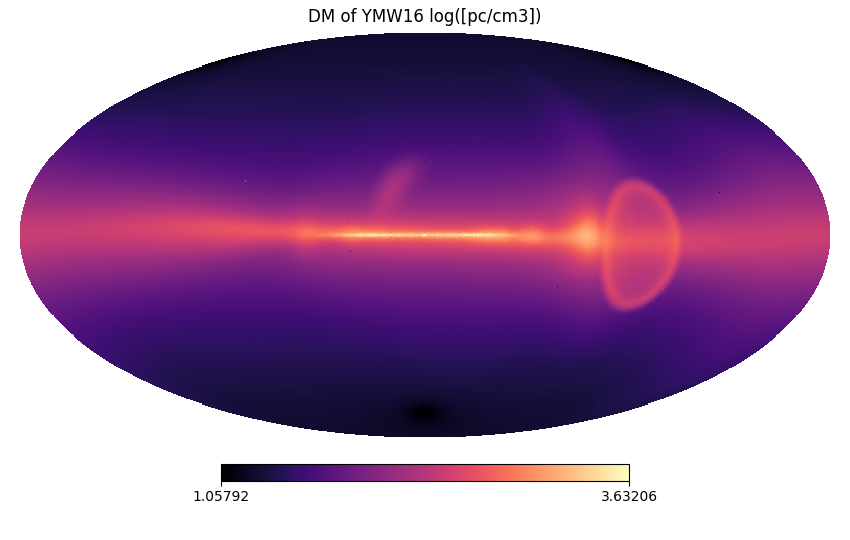
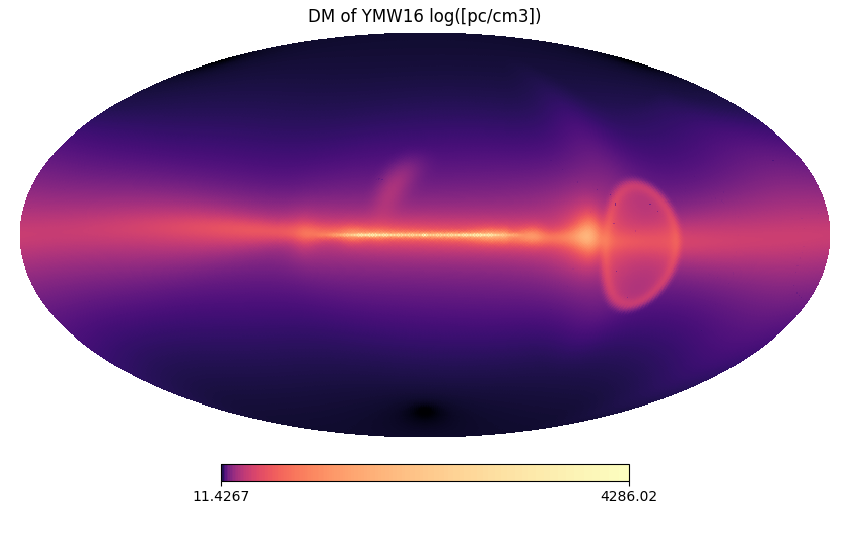
rearrangement of files into cpp/python/jupyter, and update examples

Changed region(s): [[0.2447, 0.8593, 0.7647, 0.9481]]

diff --git a/python/pizero-dragon2d-skymap.py b/python/pizero-dragon2d-skymap.py
@@ -8,17 +8,17 @@ dragon2D_leptons = Dragon2DCRDensity([Proton])
 kamae_crosssection = Kamae06()
 neutral_gas = RingModelDensity()
 
-nside = 128
+nside = 512
 Egamma = 0.1*TeV
 
 skymap_name = "skymap-pizero-nside{}-{}-{}-E{}".format(nside, 'dragon2d', 'remy18', '0.1TeV')
 
 skymap = GammaSkymap(nside=nside, Egamma=Egamma)
-#mask = RectangularWindow(-5*deg, 5*deg, 40*deg, 95*deg);
-#skymap.setMask(mask)
+mask = RectangularWindow(-5*deg, 5*deg, 40*deg, 95*deg);
+skymap.setMask(mask)
 integrator = PiZeroIntegrator(dragon2D_leptons, neutral_gas, kamae_crosssection)
 
-integrator.initCacheTable(Egamma, 100, 100, 20)
+integrator.setupCacheTable(100, 100, 20)
 
 skymap.setIntegrator(integrator)
 skymap.compute()
@@ -26,8 +26,11 @@ skymap.compute()
 output = FITSOutput("!fits/{}.fits.gz".format(skymap_name))
 skymap.save(output)
 
+skymap_data = np.array(skymap)
+skymap_data[skymap_data != UNSEEN] *= (float(Egamma)/float(GeV))**2
+
 healpy.visufunc.mollview(
-    Egamma*2*np.array(skymap),
+    skymap_data,
     title='$\pi^0$ with DRAGON2D and Remy18, nside={}, $E_\gamma =0.1\,\mathrm{{ TeV }}$'.format(nside),
     unit="GeV^1 m^-2 s^-1 sr^-1", cmap='magma')
 

diff --git a/python/ic-dragon2d-skymap.py b/python/ic-dragon2d-skymap.py
@@ -15,7 +15,7 @@ Egamma = 10*GeV
 for name, photonfield in (CMB_photons, ISRF_photons):
     skymap = GammaSkymap(nside=nside, Egamma=Egamma)
     integrator = InverseComptonIntegrator(dragon2D_leptons, photonfield, kn_crosssection)
-    integrator.initCacheTable(Egamma, 60, 60, 12)
+    integrator.setupCacheTable(60, 60, 12)
 
     skymap.setIntegrator(integrator)
     skymap.compute()
@@ -23,8 +23,11 @@ for name, photonfield in (CMB_photons, ISRF_photons):
     output = FITSOutput("!fits/ic-dragon2d-{}-skymap-nside{}.fits.gz".format(name, nside))
     skymap.save(output)
 
+    skymap_data = np.array(skymap)
+    skymap_data[skymap_data != UNSEEN] *= (float(Egamma)/float(GeV))**2
+
     healpy.visufunc.mollview(
-        Egamma*2*np.array(skymap),
+        skymap_data, norm="log",
         title='IC with DRAGON2D and {}, nside={}, $E_\gamma = 10\,\mathrm{{ GeV }}$'.format(name.upper(), nside),
         unit="GeV^1 m^-2 s^-1 sr^-1", cmap='magma')
 

diff --git a/python/e1-dm-ymw16.py b/python/e1-dm-ymw16.py
@@ -1,0 +1,30 @@
+from pyhermes import *
+from pyhermes.units import *
+
+import numpy as np
+import healpy
+import matplotlib.pyplot as plt
+
+nside = 128
+skymap_name = "skymap-dm-{}-nside{}".format('ymw16', nside)
+
+gas = YMW16()
+
+skymap = DMSkymap(nside)
+integrator = DMIntegrator(gas)
+integrator.setSunPosition(Vector3QLength(8.3*kiloparsec, 0*parsec, 0*parsec))
+
+skymap.setIntegrator(integrator)
+skymap.compute()
+
+output = FITSOutput("!fits/{}.fits.gz".format(skymap_name))
+skymap.save(output)
+
+skymap_data = np.array(skymap) # TODO: convert units!
+
+healpy.visufunc.mollview(
+        skymap_data, norm="log",
+        title='DM of YMW16 log([pc/cm3])', cmap='magma',
+        coord='G', unit=skymap.getUnits())
+
+plt.savefig('img/{}.png'.format(skymap_name), dpi=150)

diff --git a/README.md b/README.md
@@ -1,2 +1,10 @@
-# hermes-examples
-Examples for HERMES
+# Examples for HERMES
+
+## C++ sources
+
+
+## Python scripts
+
+
+## Jupyter notebooks
+
